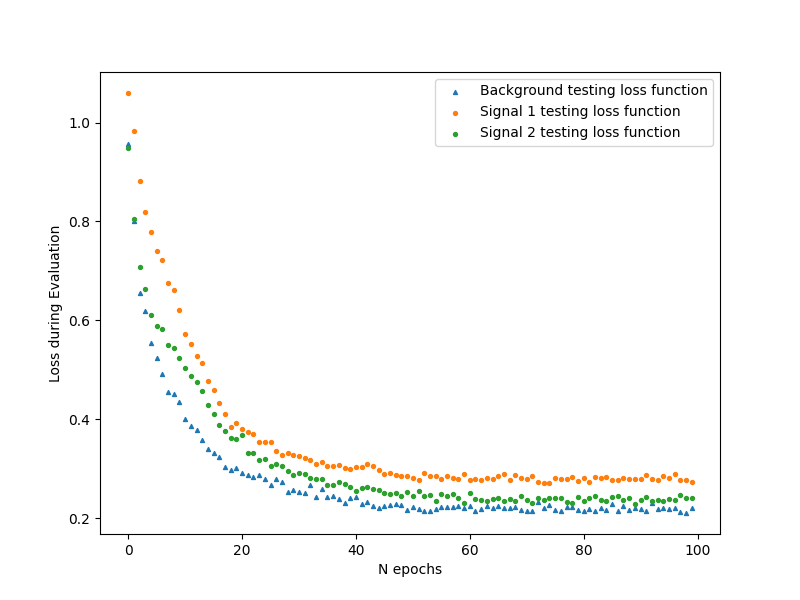
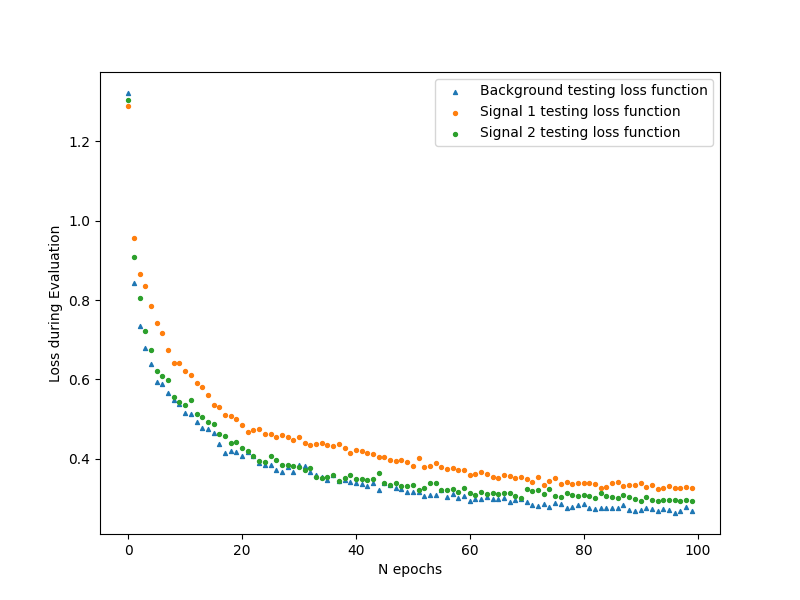
Training with standard scaling and 21, 14 layer dimensions

diff --git a/autoencoder.py b/autoencoder.py
@@ -49,7 +49,7 @@ class AutoEncoder(nn.Module):
             nn.ReLU(),
             nn.Linear(mid_dim, input_dim),
             # nn.ReLU() # MinMax Scaling 
-            nn.PReLU() # Standard Scaling
+            nn.ELU(alpha=10) # Standard Scaling
         )
 
         # Initialize decoder weights with encoder weights
